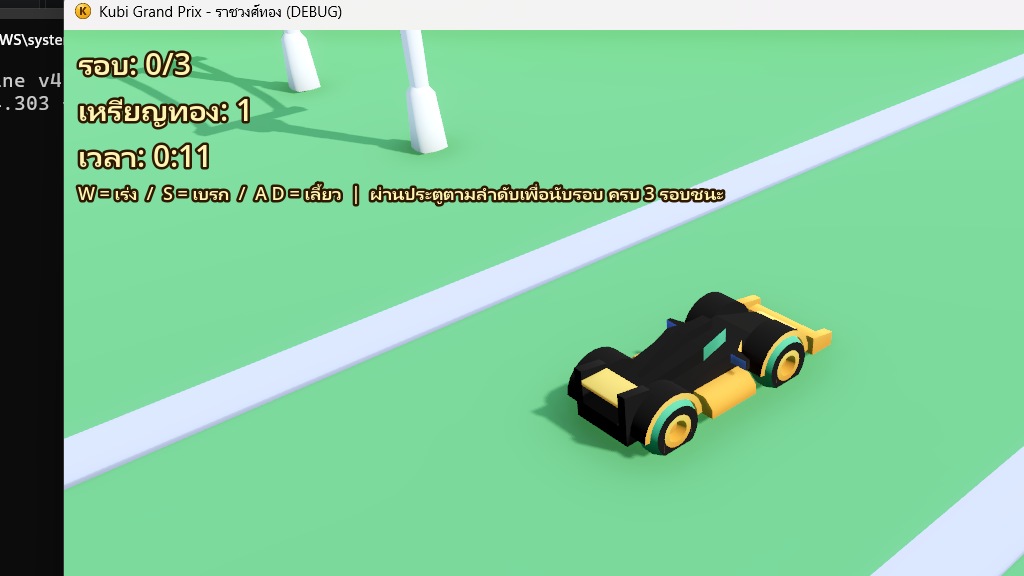
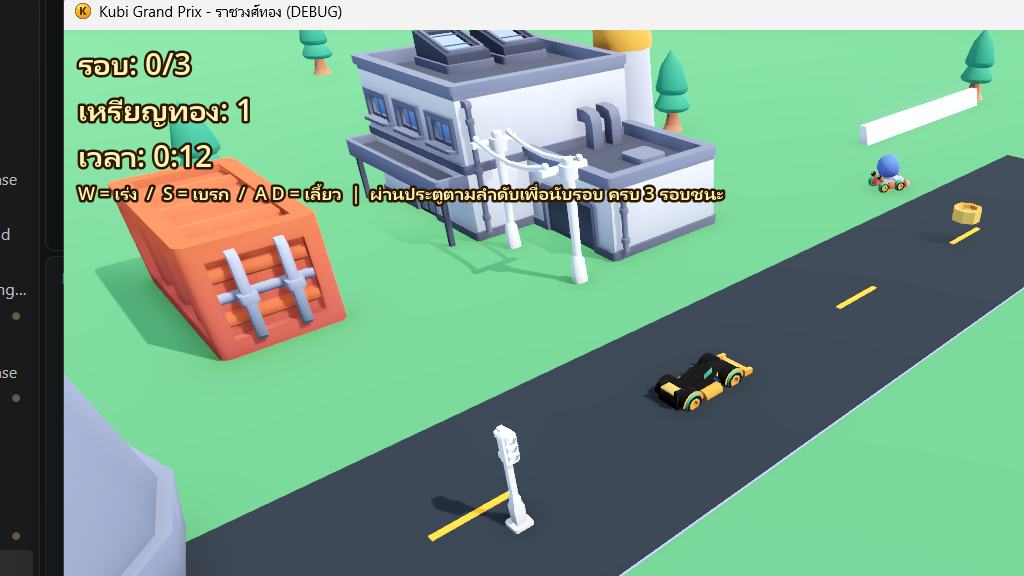
Make city racing scene more readable
Add asphalt and lane markings, correct road collisions, frame more city context, and surround the track with buildings.

diff --git a/docs/game3_car/GDD.md b/docs/game3_car/GDD.md
@@ -25,15 +25,16 @@
 ## สถานะงาน T1.1 (กำลังทำ)
 
 - ใช้ `scripts/town.gd` สร้างถนนวงรอบและฉากเมืองจาก asset CC0 ของ Kenney ที่เลือกใช้ ไม่ได้นำระบบควบคุม/วางอาคารจาก City Builder kit มาทับระบบรถ
-- โมเดลถนนต้นฉบับ 1×1 เมตรถูกขยายเป็นช่อง 7×7 เมตรให้ตรงกับ collider แล้ว; ของตกแต่งสุ่มอยู่รอบนอกและไม่บังเลน
-- เทส headless ตรวจวงถนน 42 จุด สเกล mesh/collider ตำแหน่งของตกแต่ง และระบบเกม รวม **18 PASS / 0 FAIL**
+- โมเดลถนนต้นฉบับ 1×1 เมตรถูกขยายเป็นช่อง 7×7 เมตร เพิ่มผิวแอสฟัลต์/เส้นประ และจัด collider ให้ระดับเดียวกับผิวถนน
+- เพิ่มอาคารรอบขอบสนามและจัดของตกแต่งไว้นอกเลน เพื่อให้เห็นบรรยากาศเมืองจากกล้องขับรถ
+- เทส headless ตรวจวงถนน 42 จุด ผิวถนน/เส้นประ สเกล mesh/collider ตำแหน่งของตกแต่ง อาคาร และระบบเกม รวม **20 PASS / 0 FAIL**
 - ภาพขณะเล่นหลังแก้สเกลถนน: `screenshots/overview.png`
 - รายการ asset และที่มา: `games/game3_car/starter-kit-racing/ASSETS.md`
 
 ## เทส (headless)
 
 `tests/test_game3.gd` — รัน: `godot --headless --path . --script res://tests/test_game3.gd`
-18 ชุด ALL PASS พิสูจน์: วงถนน/สเกล mesh/collider/ตำแหน่งของตกแต่ง, โครง Coins/Gates/Props, เก็บเหรียญ, ลำดับประตู+ข้ามลำดับไม่นับ+ครบ 3 รอบชนะ, respawn ร่วงสนาม, ขับได้จริงด้วยปุ่ม W
+20 ชุด ALL PASS พิสูจน์: วงถนน/ผิวแอสฟัลต์/เส้นประ/สเกล mesh/collider/ตำแหน่งของตกแต่ง/อาคารเมือง, โครง Coins/Gates/Props, เก็บเหรียญ, ลำดับประตู+ข้ามลำดับไม่นับ+ครบ 3 รอบชนะ, respawn ร่วงสนาม, ขับได้จริงด้วยปุ่ม W
 
 ## ของที่มาพร้อมแล้ว (Starter Kit Racing — Kenney NL, MIT/CC0)
 
@@ -62,7 +63,7 @@
 
 | วัน | สรุป |
 |---|---|
-| 2026-10-29 | **T1.1 ต่อ WIP เมือง Kubi** ขยาย mesh ถนน 1×1 ม. ให้ตรง collider 7×7 ม., ย้ายของตกแต่งออกจากเลน, เพิ่มเทส และให้ `play.bat` เปิดโปรเจกต์แข่งรถ — ใช้เฉพาะ asset CC0 จาก Kenney ไม่ได้นำโปรเจกต์ City Builder ทั้งชุดเข้ามา |
+| 2026-10-29 | **T1.1 ต่อ WIP เมือง Kubi** ขยายถนนให้ตรง collider, เพิ่มแอสฟัลต์/เส้นประและอาคารขอบสนาม ปรับกล้องให้เห็นบริบทเมือง ย้ายของตกแต่งออกจากเลน และเพิ่มเทส — ใช้เฉพาะ asset CC0 จาก Kenney ไม่ได้นำโปรเจกต์ City Builder ทั้งชุดเข้ามา |
 | 2026-10-29 | **T1.0 ระบบเกมครบ (3D)** คำสั่งผู้อำนวยการ "เป็น 3D + ให้มีเอกลักษณ์ของตัวเอง + ใช้ Skill/เครื่องมือเต็มที่": โยนตัวตนโลก Kubi ขึ้น 3D — เหรียญทองเรืองแสงตามเลน, ประตูนับรอบ 3 จุด (0→1→2→เส้นชัย = +1 รอบ, ข้ามลำดับไม่นับ), HUD ไทย, respawn ตกสนาม, จอชนะ 3 รอบ — รถผู้เล่นสลับเป็น **race-future** + การ์ต Kubi 3 คันตกแต่งเส้นชัย + เสาไฟ/ป้าย/กรวย/แบร์ริเออร์ขอบสนาม (จาก **kenney car-kit + city-kit-roads** ผู้อำนวยการหย่อน asset มาให้, CC0 ครบ, สเกลอัตโนมัติที่รันไทม์ด้วยการวัด AABB) — เทส headless `tests/test_game3.gd` **14 ชุด ALL PASS** — เปิดเกมให้ผู้อำนวยการเห็นจริงแล้ว (ภาพ `screenshots/kubigp-t1-workshop.png`) — **ไม่เสียโควตา Pixellab** (ยัง B 4/40, C เต็ม) |
 | 2026-10-29 | **T0.5 ลง Starter Kit Racing (KenneyNL, MIT/CC0)** ตามคำสั่ง "ลง kit ช่วยให้ไวขึ้น": vendor ไป `games/game3_car/starter-kit-racing/` (ตัด nested .git) — ประกอบระบบพร้อมขับได้ทันที: arcade vehicle (WASD + skid เสียง), สนามสร้างมาจาก GridMap (ต่อแผ่น/โค้ง/เส้นชัย/เต็นท์), รถ 5 สี + มอเตอร์ไซค์, ควันท้าย, Forward+ Jolt — พิสูจน์ headless import+run exit 0 บน Godot 4.7.2 — ประเด็นที่ต้องตัดสิน: kit นี้ = **3D** (ขั้นตอนแนว 2D เดิมสองเกม) ผู้อำนวยการต้องตรวจ "เป็น 3D แบบนี้ไหม" ก่อนลุยต่อ |
 | 2026-10-29 | **T0 โครงตั้งต้น**: สร้างโฟลเดอร์ `games/game3_car/` + project.godot (ยืดพิกัด stretch canvas_items ติดตั้งตั้งแต่แรก ตามบทเรียน DPI 125% เกม 2) + ฉาก stub พร้อมรัน (จอเทา + ป้ายสถานะ) + play.bat + GDD.md — headless import รันสะอาด exit 0 — รอคำสั่งกำหนดแนวเกมรถ |
